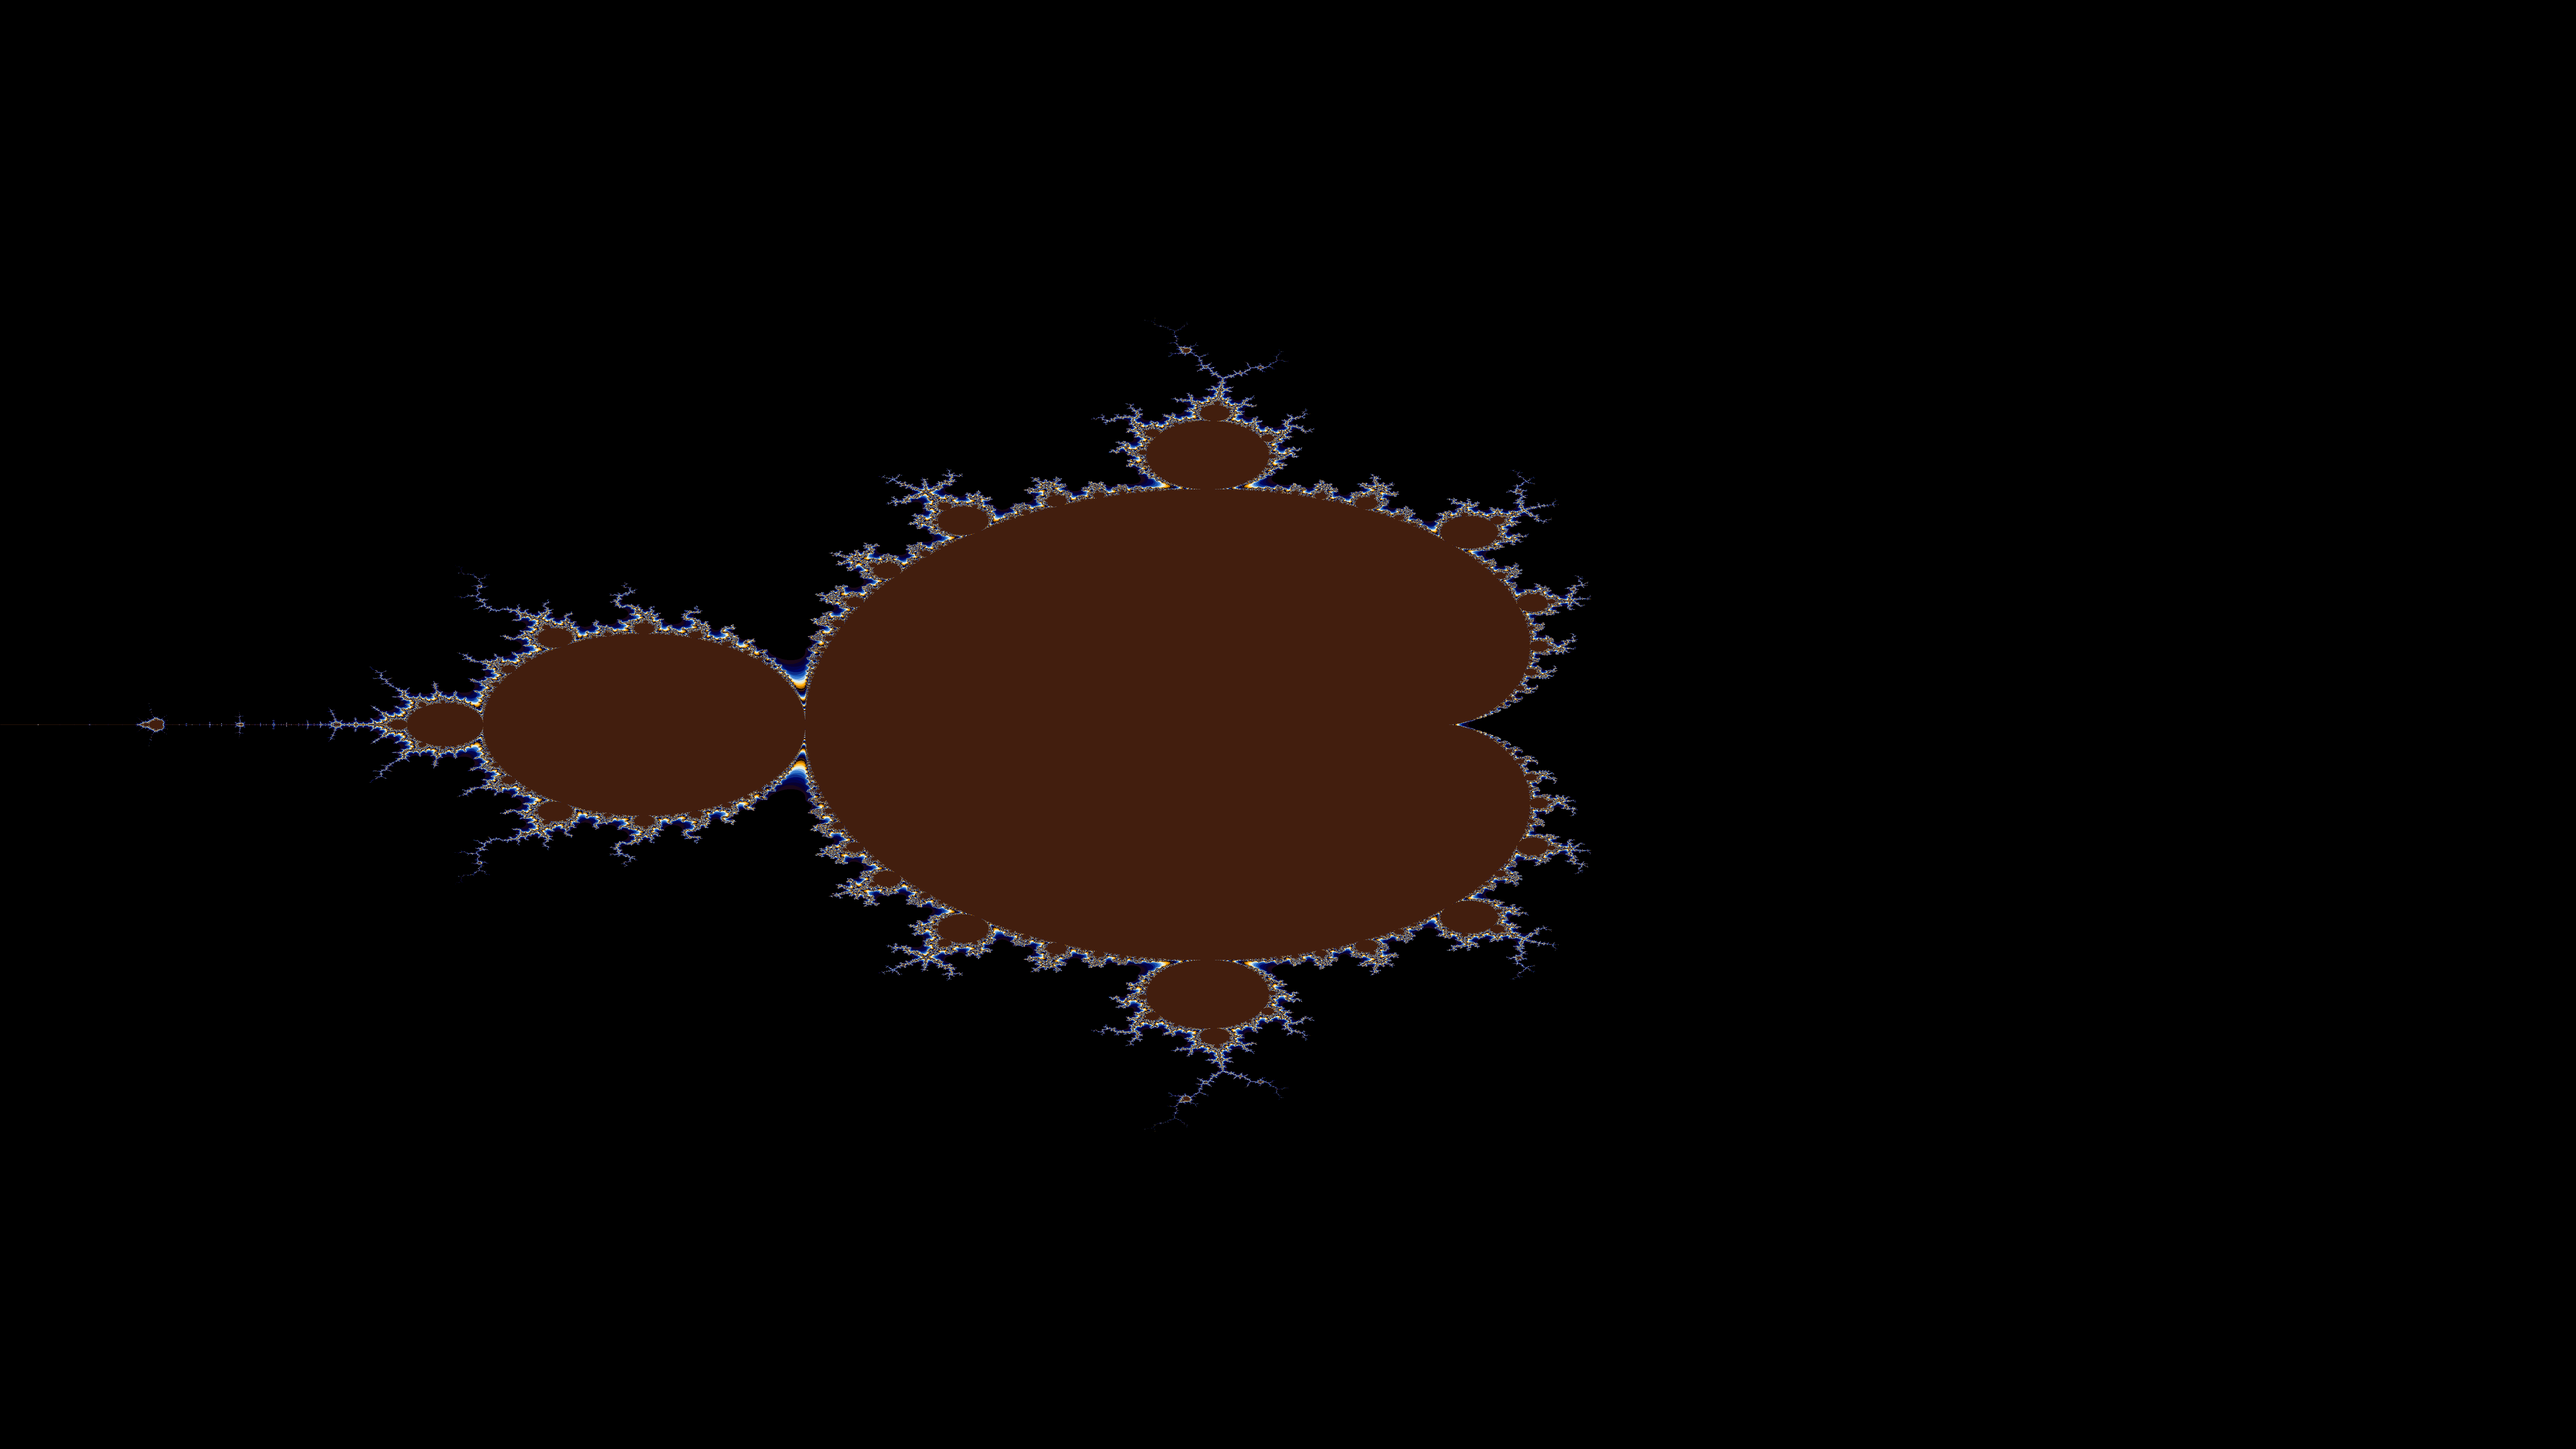
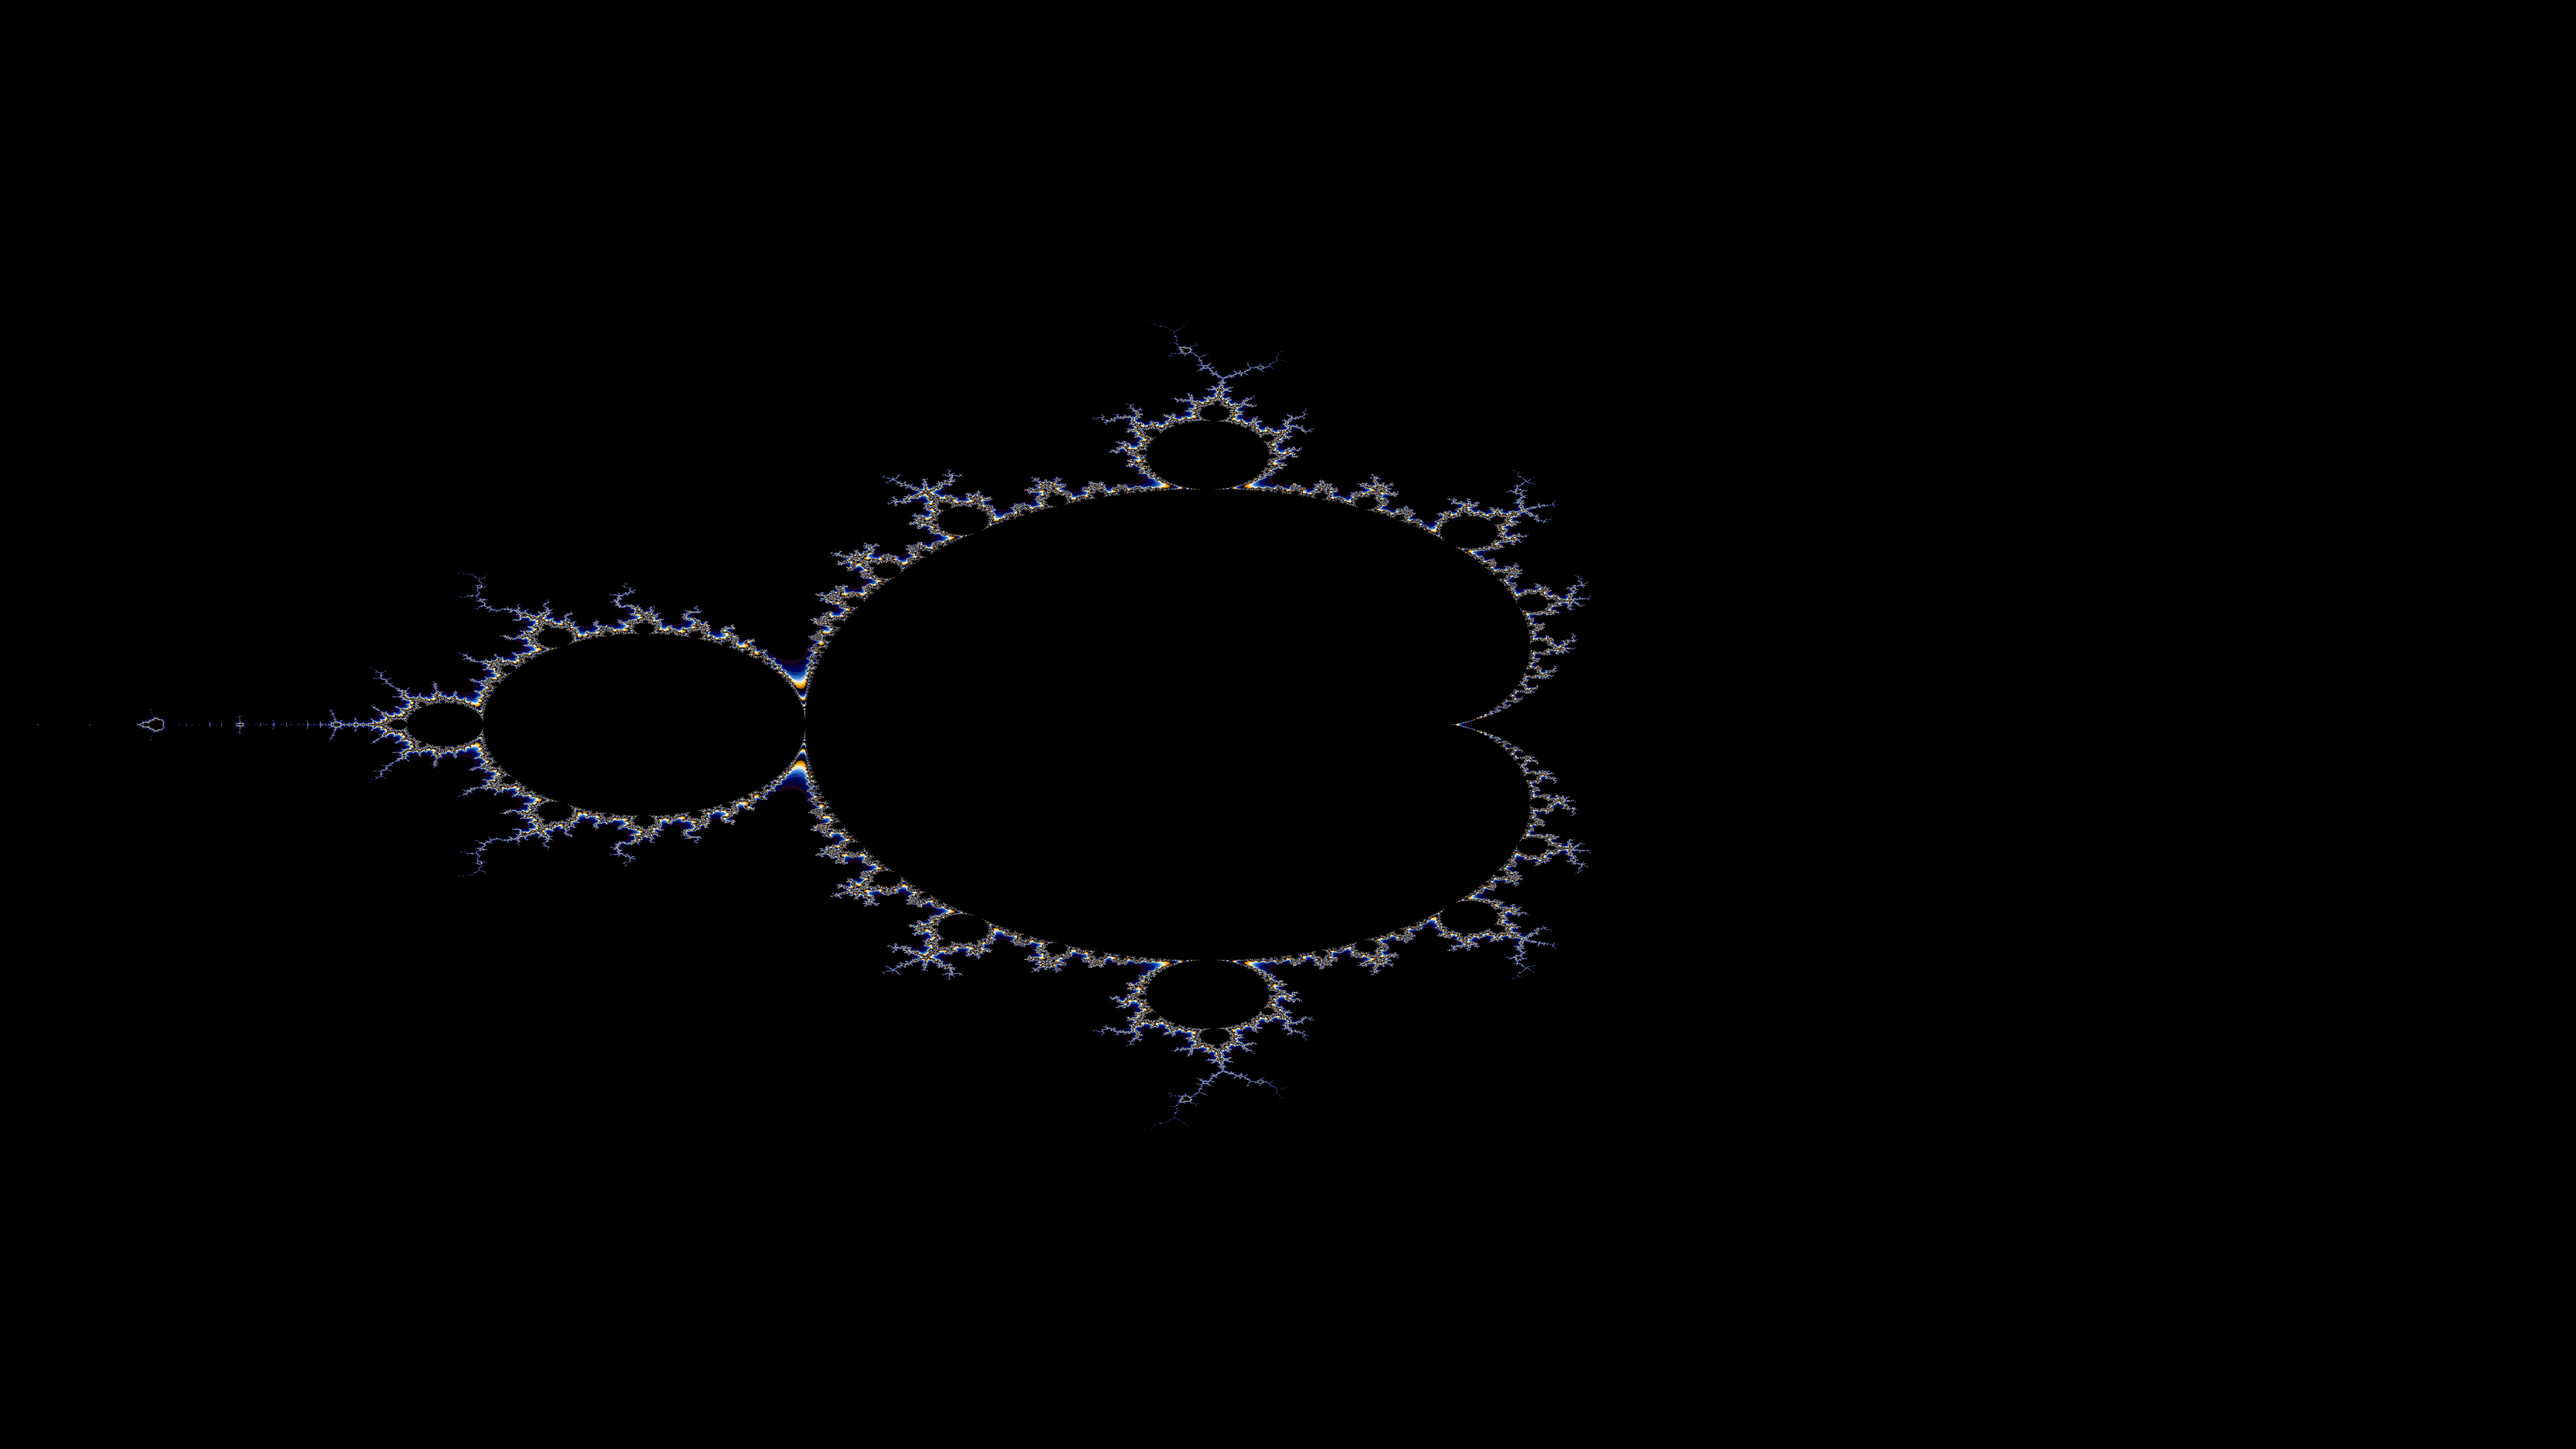
img

Changed region(s): [[0.1562, 0.2812, 0.625, 0.7188]]

diff --git a/trabalho/mand.c b/trabalho/mand.c
@@ -19,9 +19,13 @@ Color getColor(int iter){
     black.r = 0;
     black.g = 0;
     black.b = 0;
+    Color white;
+    white.r = 256;
+    white.g = 256;
+    white.b = 256;
     
     Color colors[] = {
-        {66, 30, 15}, {25, 7, 26}, {9, 1, 47}, {4, 4, 73},
+        white, {25, 7, 26}, {9, 1, 47}, {4, 4, 73},
         {0, 7, 100}, {12, 44, 138}, {24, 82, 177}, {57, 125, 209},
         {134, 181, 229}, {211, 236, 248}, {241, 233, 191}, {248, 201, 95},
         {255, 170, 0}, {204, 128, 0}, {153, 87, 0}, black
